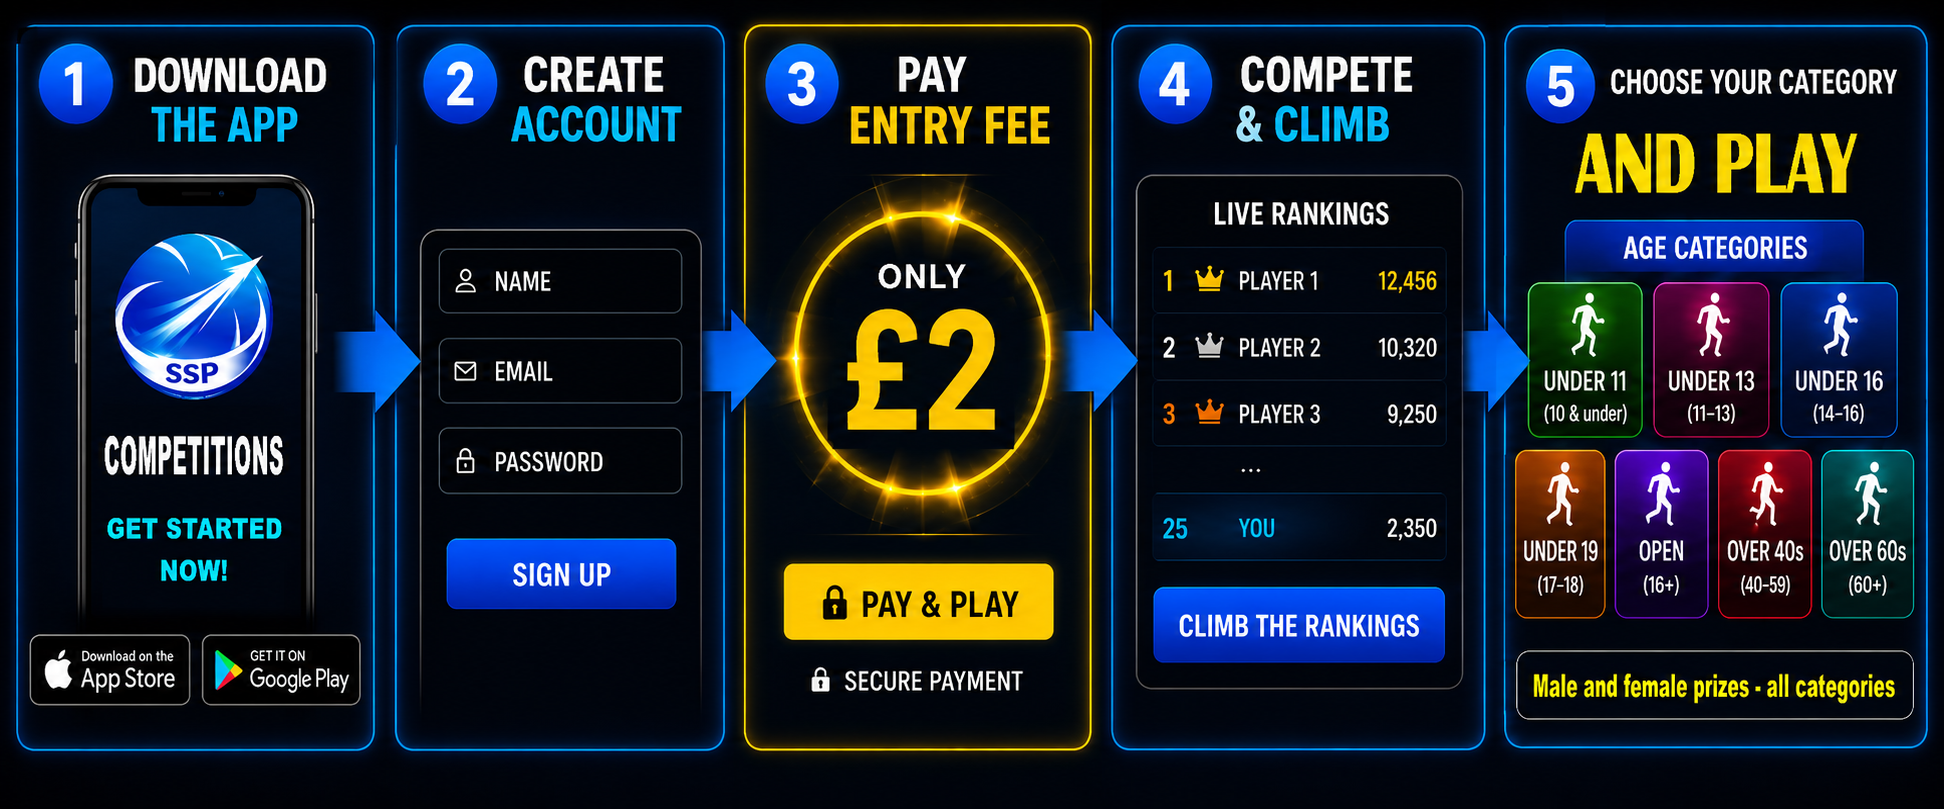
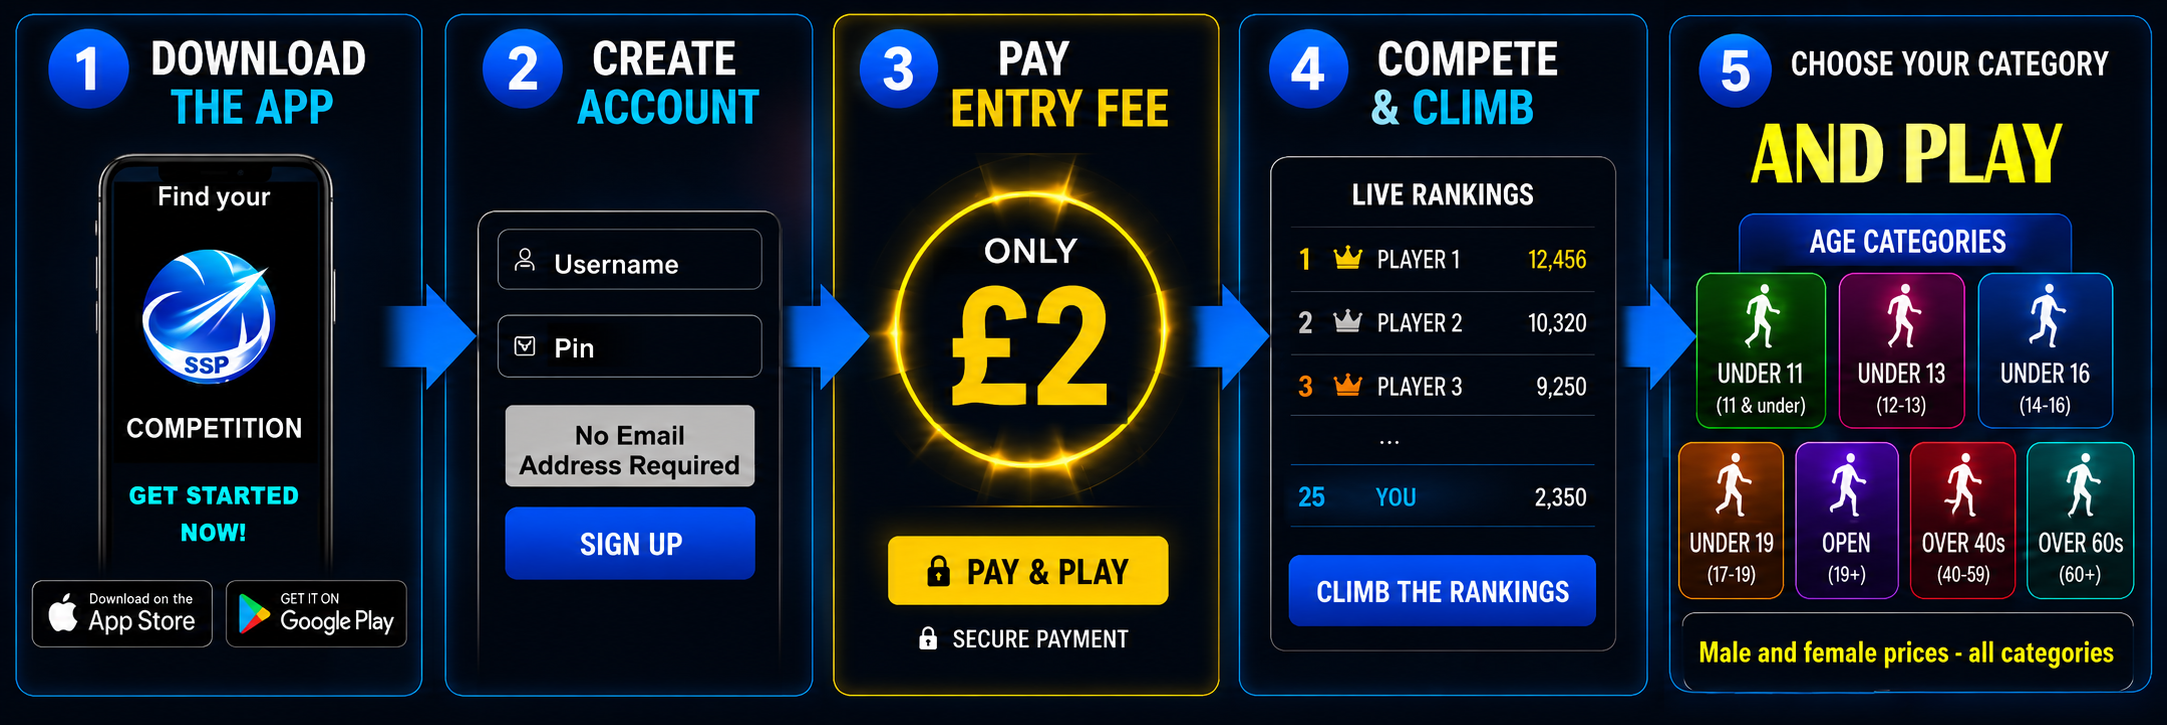
issue resolved while create sollution duplicate name and ui bugs fixed

diff --git a/components/pages/admin/sub-admin/SubAdminDashboard.jsx b/components/pages/admin/sub-admin/SubAdminDashboard.jsx
@@ -26,7 +26,7 @@ import { ToastContainer, toast } from "react-toastify";
 import "react-toastify/dist/ReactToastify.css";
 
 import Link from "next/link";
-import { Layers, Users, UploadCloud, ListChecks, Play, ShieldCheck, Sparkles, Target, FolderKanban, ArrowRight, Mail, Plus } from "lucide-react";
+import { Layers, Users, UploadCloud, ListChecks, Play, ShieldCheck, Sparkles, Target, FolderKanban, ArrowRight, Mail, Plus, Eye, EyeOff } from "lucide-react";
 import AdminQuickActions from "@/components/shared/AdminQuickActions";
 
 const cardToneClasses = [
@@ -60,7 +60,7 @@ import LadderList from "../LadderList";
 import LadderInfo from "../LadderInfo";
 import Navbar from "@/components/shared/Navbar";
 
-import { motion } from "framer-motion";
+import { motion, AnimatePresence } from "framer-motion";
 
 import { importSkillLeaderboard } from "@/redux/slices/BasicLeaderboardSlice";
 import { importRoster } from "@/redux/slices/rosterSlice";
@@ -71,7 +71,7 @@ export default function SubAdminDashboard() {
   const [csvFile, setCsvFile] = useState(null);
   const [ladderType, setLadderType] = useState("winlose");
   const [duplicateWarning, setDuplicateWarning] = useState(null);
-  const [showDemo, setShowDemo] = useState(true);
+  const [showDemo, setShowDemo] = useState(false);
   const [withoutCsv, setWithoutCsv] = useState(false);
 
 
@@ -227,6 +227,7 @@ export default function SubAdminDashboard() {
     if (result.duplicateNames.length > 0) {
       setDuplicateWarning(result);
       setCsvFile(null);
+      e.target.value = "";
 
       toast.error(
         `Duplicate names found: ${[...new Set(result.duplicateNames)].join(", ")}`,
@@ -236,6 +237,7 @@ export default function SubAdminDashboard() {
     }
 
     setCsvFile(file);
+    e.target.value = "";
   };
 
   const handleCreateLadder = async () => {
@@ -464,15 +466,49 @@ export default function SubAdminDashboard() {
               transition={{ duration: 0.45, delay: 0.15 }}
               className="overflow-hidden rounded-[24px] sm:rounded-[30px] border border-border bg-card p-4 backdrop-blur-xl sm:p-5"
             >
-              <div className="mb-4 px-1">
-                <p className="text-p3 font-semibold uppercase tracking-[0.18em] text-primary/80">
-                  Solutions Available
-                </p>
-                <h2 className="mt-2 text-h2 font-bold text-foreground">
-                  DEMO SOLUTIONS (Use to test)
-                </h2>
+              <div className="mb-4 px-1 flex items-center justify-between">
+                <div>
+                  <p className="text-p3 font-semibold uppercase tracking-[0.18em] text-primary/80">
+                    Solutions Available
+                  </p>
+                  <h2 className="mt-2 text-h2 font-bold text-foreground">
+                    DEMO SOLUTIONS (Use to test)
+                  </h2>
+                </div>
+                <Button
+                  size="sm"
+                  onClick={() => setShowDemo(!showDemo)}
+                  className="text-white hover:opacity-90 px-3 py-1.5 rounded-lg flex items-center gap-1.5 transition-all text-xs font-semibold shadow-sm hover:brightness-110 active:scale-95"
+                  style={{
+                    backgroundColor: "color-mix(in srgb, var(--primary), var(--secondary))"
+                  }}
+                >
+                  {showDemo ? (
+                    <>
+                      <EyeOff className="h-3.5 w-3.5" />
+                      <span>Hide</span>
+                    </>
+                  ) : (
+                    <>
+                      <Eye className="h-3.5 w-3.5" />
+                      <span>Show</span>
+                    </>
+                  )}
+                </Button>
               </div>
-              <LadderInfo ladders={demoLadders} />
+              <AnimatePresence initial={false}>
+                {showDemo && (
+                  <motion.div
+                    initial={{ height: 0, opacity: 0 }}
+                    animate={{ height: "auto", opacity: 1 }}
+                    exit={{ height: 0, opacity: 0 }}
+                    transition={{ duration: 0.3, ease: "easeInOut" }}
+                    className="overflow-hidden"
+                  >
+                    <LadderInfo ladders={demoLadders} />
+                  </motion.div>
+                )}
+              </AnimatePresence>
             </motion.section>
 
             <motion.section

diff --git a/components/shared/CreatePanel.jsx b/components/shared/CreatePanel.jsx
@@ -156,7 +156,10 @@ const CreatePanel = ({
         <Button
           onClick={handleCreate}
           disabled={!ladderName || (!withoutCsv && !csvFile) || loading}
-          className="w-full h-12 rounded-2xl text-p1 font-bold bg-primary hover:bg-primary/90 text-white shadow-xl active:scale-95 transition-all"
+          className="w-full h-12 rounded-2xl text-p1 font-bold text-white shadow-xl active:scale-95 transition-all disabled:opacity-50 disabled:pointer-events-none hover:opacity-90 hover:brightness-110"
+          style={{
+            backgroundColor: "color-mix(in srgb, var(--primary), var(--secondary))"
+          }}
         >
           {loading
             ? "Creating..."

diff --git a/components/pages/admin/AdminPage.jsx b/components/pages/admin/AdminPage.jsx
@@ -196,6 +196,7 @@ export default function AdminPage() {
     if (result.duplicateNames.length > 0) {
       setDuplicateWarning(result);
       setCsvFile(null);
+      event.target.value = "";
       toast.error(
         `Duplicate names found: ${[...new Set(result.duplicateNames)].join(", ")}`,
       );
@@ -203,6 +204,7 @@ export default function AdminPage() {
     }
 
     setCsvFile(file);
+    event.target.value = "";
   };
 
   const ladderExists = (name) => {